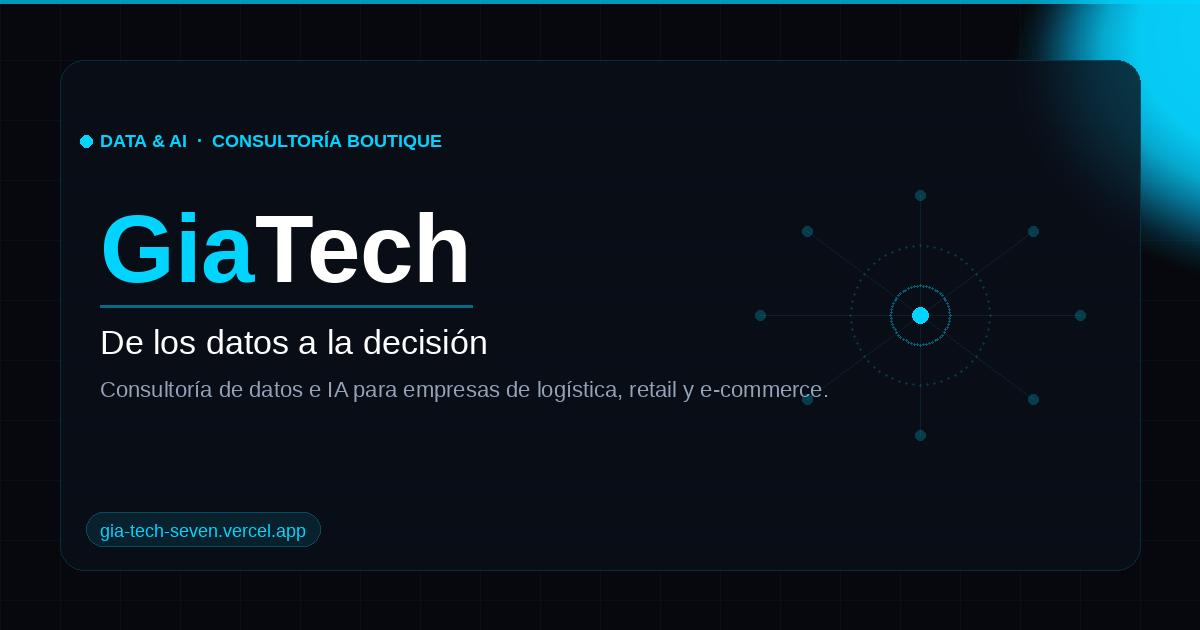
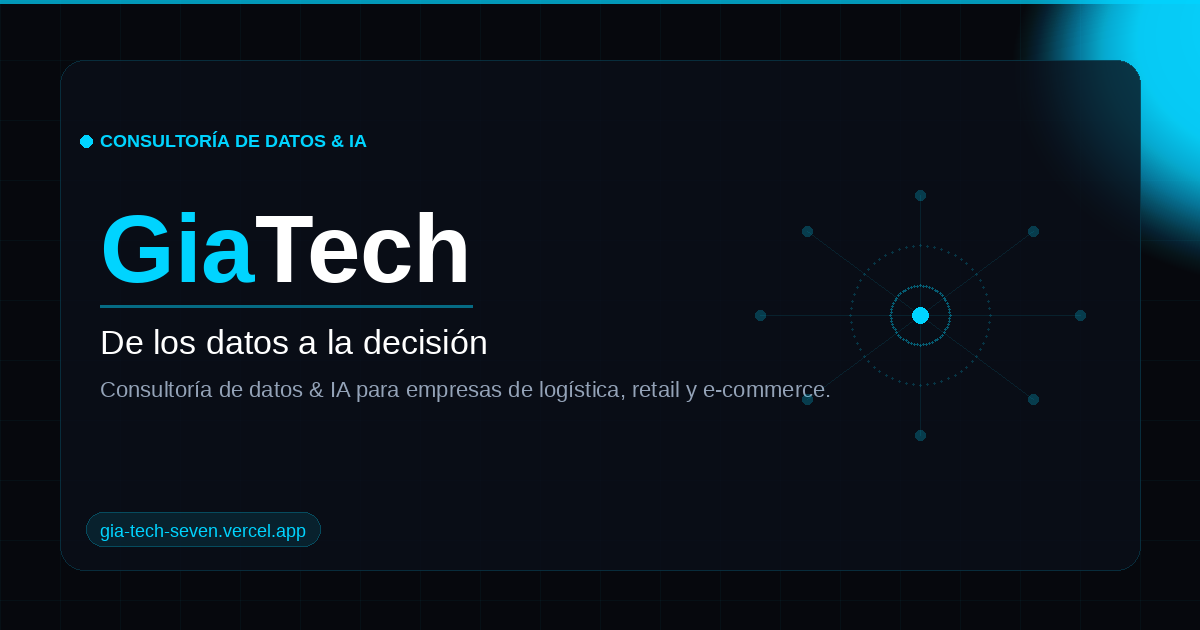
fix: image

Changed region(s): [[0.2467, 0.6032, 0.7092, 0.6333], [0.0925, 0.2111, 0.37, 0.2413]]

diff --git a/src/app/api/transform-website/route.ts b/src/app/api/transform-website/route.ts
@@ -13,14 +13,14 @@ export async function POST(req: NextRequest) {
       return NextResponse.json({ error: 'API key no configurada' }, { status: 500 })
     }
 
-    const prompt = `Sos un consultor experto en datos e IA para negocios. Un potencial cliente te compartió la URL de su sitio web: ${url}
+    const prompt = `Sos un consultor experto en datos & IA para negocios. Un potencial cliente te compartió la URL de su sitio web: ${url}
 
-Basándote en la URL y el dominio, inferí el tipo de empresa, industria y procesos de negocio que probablemente tienen. Generá un análisis de cómo GiaTech (una consultora boutique de datos e IA) podría transformar esa empresa.
+Basándote en la URL y el dominio, inferí el tipo de empresa, industria y procesos de negocio que probablemente tienen. Generá un análisis de cómo GiaTech (una consultora de datos & IA) podría transformar esa empresa.
 
 Respondé ÚNICAMENTE con un JSON válido con esta estructura exacta, sin texto adicional:
 {
   "original": "Descripción breve de cómo parece ser la empresa hoy (2-3 oraciones, lenguaje ejecutivo)",
-  "improved": "Visión de cómo quedaría esa empresa después de implementar soluciones de datos e IA con GiaTech (3-4 oraciones, foco en impacto de negocio)",
+  "improved": "Visión de cómo quedaría esa empresa después de implementar soluciones de datos & IA con GiaTech (3-4 oraciones, foco en impacto de negocio)",
   "improvements": [
     "Mejora concreta 1 con impacto cuantificable",
     "Mejora concreta 2 con impacto cuantificable",

diff --git a/src/components/demos/DemoTransformer.tsx b/src/components/demos/DemoTransformer.tsx
@@ -193,7 +193,7 @@ export default function DemoTransformer() {
           <div>
             <div className="text-sm font-semibold" style={{ color: 'var(--text-primary)' }}>Transformador de Sitios Web con IA</div>
             <p className="text-xs leading-relaxed mt-1" style={{ color: 'var(--text-secondary)' }}>
-              Ingresá la URL de tu sitio actual. Nuestra IA analiza el rubro y los procesos del negocio para generar una visión concreta de cómo tu empresa se vería con soluciones de datos e inteligencia artificial.
+              Ingresá la URL de tu sitio actual. Nuestra IA analiza el rubro y los procesos del negocio para generar una visión concreta de cómo tu empresa se vería con soluciones de datos & inteligencia artificial.
             </p>
           </div>
         </div>
@@ -288,7 +288,7 @@ export default function DemoTransformer() {
               <div className="card p-6">
                 <div className="flex items-center gap-2 mb-4">
                   <Sparkles size={16} style={{ color: '#00d4ff' }} />
-                  <div className="text-sm font-semibold" style={{ color: 'var(--text-primary)' }}>Tu empresa con datos e IA</div>
+                  <div className="text-sm font-semibold" style={{ color: 'var(--text-primary)' }}>Tu empresa con datos & IA</div>
                 </div>
                 <p className="text-sm leading-relaxed mb-5" style={{ color: 'var(--text-secondary)' }}>{result.improved}</p>
                 <div className="space-y-2">

diff --git a/src/app/layout.tsx b/src/app/layout.tsx
@@ -7,7 +7,7 @@ const BASE_URL = 'https://gia-tech-seven.vercel.app'
 
 export const metadata: Metadata = {
   title: 'GiaTech — De los datos a la decisión',
-  description: 'Consultoría boutique de datos e IA para empresas que quieren convertir su información en ventaja competitiva real.',
+  description: 'Consultoría especializada de datos & IA para empresas que quieren convertir su información en ventaja competitiva real.',
   keywords: ['consultora datos', 'inteligencia artificial', 'machine learning', 'Argentina'],
   metadataBase: new URL(BASE_URL),
   openGraph: {
@@ -16,7 +16,7 @@ export const metadata: Metadata = {
     url: BASE_URL,
     siteName: 'GiaTech',
     title: 'GiaTech — De los datos a la decisión',
-    description: 'Consultoría boutique de datos e IA para empresas que quieren convertir su información en ventaja competitiva real.',
+    description: 'Consultoría especializada de datos & IA para empresas que quieren convertir su información en ventaja competitiva real.',
     images: [
       {
         url: '/og-image.png',
@@ -29,7 +29,7 @@ export const metadata: Metadata = {
   twitter: {
     card: 'summary_large_image',
     title: 'GiaTech — De los datos a la decisión',
-    description: 'Consultoría de datos e IA para decisiones reales.',
+    description: 'Consultoría de datos & IA para decisiones reales.',
     images: ['/og-image.png'],
   },
 }

diff --git a/src/app/nosotros/page.tsx b/src/app/nosotros/page.tsx
@@ -3,7 +3,7 @@ import { ArrowRight } from 'lucide-react'
 
 export const metadata = {
   title: 'Nosotros — GiaTech',
-  description: 'Consultoría boutique de datos e IA.',
+  description: 'Consultoría de datos & IA.',
 }
 
 const values = [
@@ -66,7 +66,7 @@ export default function NosotrosPage() {
               Construimos soluciones de datos que el negocio realmente puede usar
             </h1>
             <p className="text-lg leading-relaxed" style={{ color: 'var(--text-secondary)' }}>
-              GiaTech es una consultoría boutique de datos e inteligencia artificial especializada en traducir información compleja en decisiones concretas para empresas de logística, retail y e-commerce en Argentina y la región.
+              GiaTech es una consultoría de datos & inteligencia artificial especializada en traducir información compleja en decisiones concretas para empresas de logística, retail y e-commerce en Argentina y la región.
             </p>
           </div>
         </div>

diff --git a/src/components/layout/Footer.tsx b/src/components/layout/Footer.tsx
@@ -12,7 +12,7 @@ export default function Footer() {
               <span style={{ color: 'var(--neon)' }}>Gia</span>Tech
             </div>
             <p className="text-sm leading-relaxed" style={{ color: 'var(--text-muted)' }}>
-              Consultoría boutique de datos e IA.<br />
+              Consultoría de datos & IA.<br />
               Convertimos información en decisiones que generan impacto.
             </p>
             <div className="mt-4 inline-block text-xs font-semibold tracking-widest uppercase px-3 py-1.5 rounded border"

diff --git a/src/app/demos/page.tsx b/src/app/demos/page.tsx
@@ -50,7 +50,7 @@ const demos = [
     icon: Sparkles,
     title: 'Transformador IA',
     subtitle: 'Tu empresa con IA',
-    problem: '¿Cómo quedaría tu empresa si implementara datos e IA de verdad?',
+    problem: '¿Cómo quedaría tu empresa si implementara datos & IA de verdad?',
     solution: 'Ingresá la URL de tu sitio y nuestra IA genera una visión concreta de la transformación posible.',
     value: 'Visión personalizada + casos de uso + estimación de inversión.',
     highlight: true,

diff --git a/src/app/servicios/page.tsx b/src/app/servicios/page.tsx
@@ -4,7 +4,7 @@ import { services } from '@/data/content'
 
 export const metadata = {
   title: 'Servicios — GiaTech',
-  description: 'Soluciones de datos e IA para logística, retail y e-commerce.',
+  description: 'Soluciones de datos & IA para logística, retail y e-commerce.',
 }
 
 export default function ServiciosPage() {
